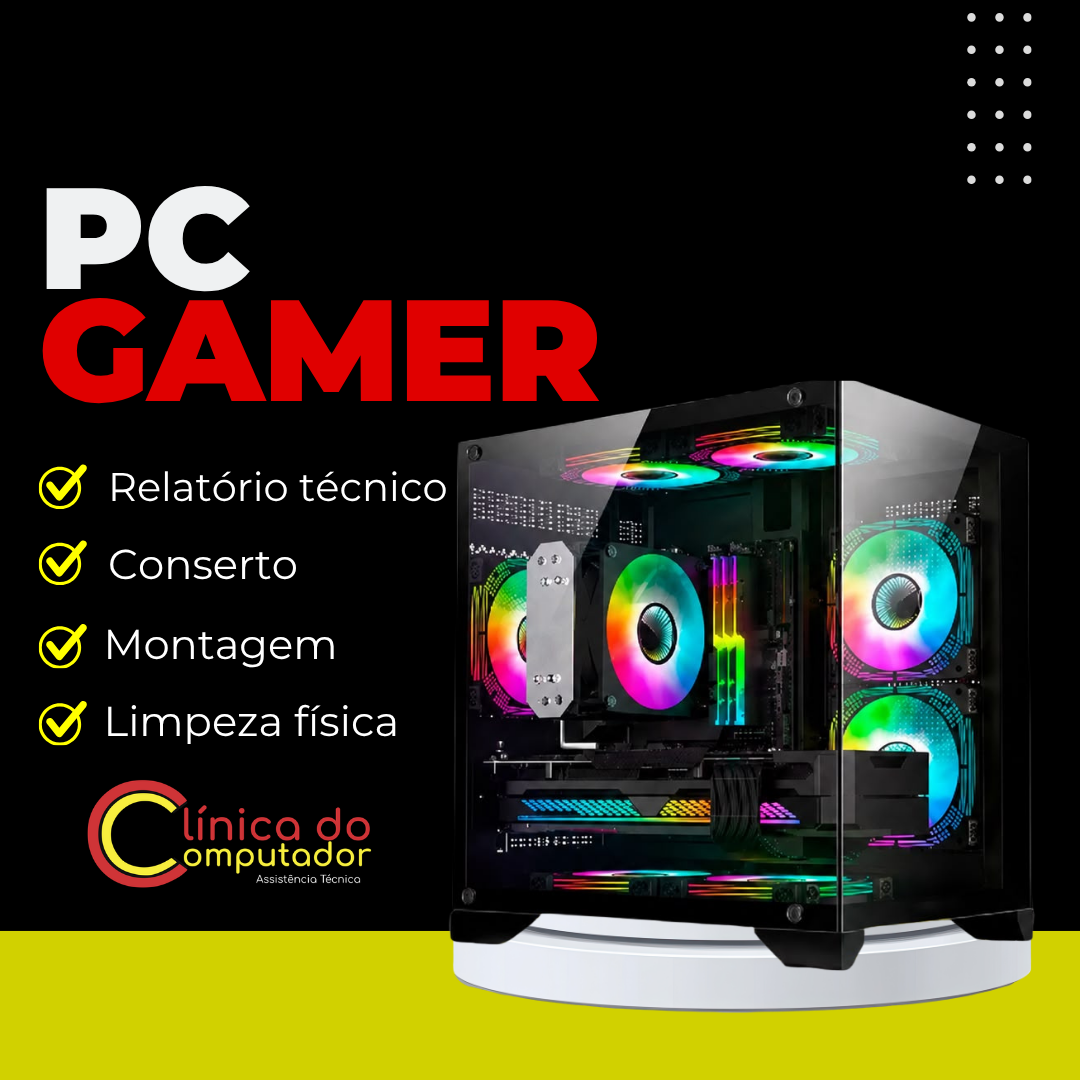
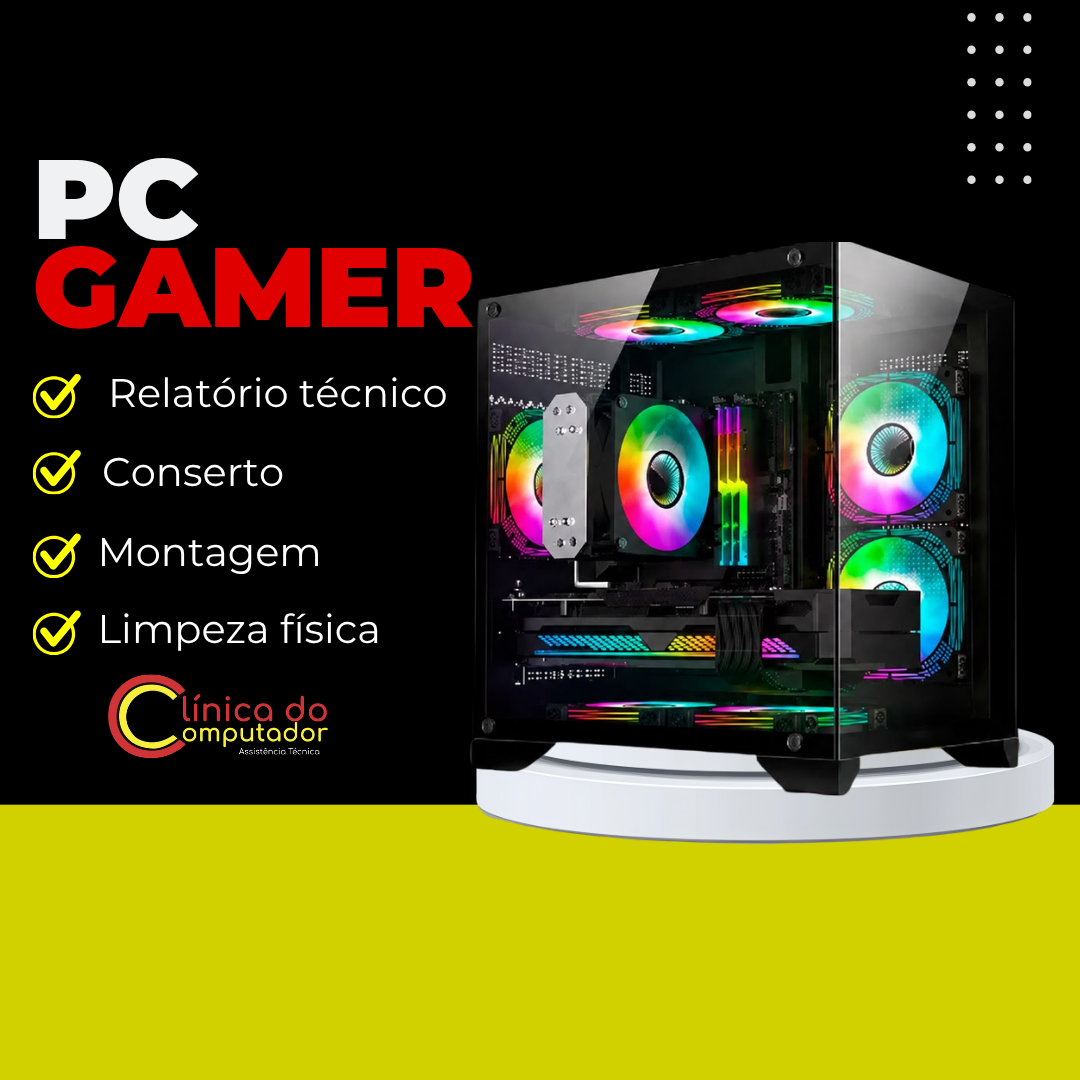
otimização do site

diff --git a/index.html b/index.html
@@ -3,17 +3,55 @@
 
 <head>
     <meta charset="UTF-8">
-    <meta http-equiv="X-UA-Compatible" content="IE=edge">
     <meta name="viewport" content="width=device-width, initial-scale=1.0">
     <meta name="description" content="Assistência técnica especializada em computadores e notebooks em Salvador e Lauro de Freitas. Mais de 15 anos de experiência: reparos, upgrades, formatação e manutenção. Orçamento rápido pelo WhatsApp.">
+
+    <link rel="canonical" href="https://clinicadocomputador.com.br/">
+
+    <meta property="og:type" content="website">
+    <meta property="og:title" content="Clínica do Computador - Assistência Técnica">
+    <meta property="og:description" content="Assistência técnica especializada em computadores e notebooks em Salvador e Lauro de Freitas. Mais de 15 anos de experiência.">
+    <meta property="og:image" content="https://clinicadocomputador.com.br/assets/HERO.png">
+    <meta property="og:url" content="https://clinicadocomputador.com.br/">
+    <meta property="og:locale" content="pt_BR">
+    <meta name="twitter:card" content="summary_large_image">
+
     <link rel="icon" type="image/png" href="assets/logoaba.png?v=3">
     <link rel="apple-touch-icon" href="assets/logoaba.png?v=5">
     <link rel="apple-touch-icon" sizes="180x180" href="assets/logoaba.png?v=6">
     <link rel="icon" type="image/png" sizes="192x192" href="assets/logoaba.png?v=6">
-    
-    <title>Clínica do Computador - Assistência Técnica</title>
+
+    <title>Clínica do Computador - Assistência Técnica em Salvador e Lauro de Freitas</title>
+
+    <link rel="preconnect" href="https://fonts.googleapis.com">
+    <link rel="preconnect" href="https://fonts.gstatic.com" crossorigin>
+    <link href="https://fonts.googleapis.com/css2?family=Inter:wght@400;500;700;800&display=swap" rel="stylesheet">
 
     <link rel="stylesheet" href="style.css">
+
+    <script type="application/ld+json">
+    {
+      "@context": "https://schema.org",
+      "@type": "ComputerStore",
+      "name": "Clínica do Computador",
+      "image": "https://clinicadocomputador.com.br/assets/HERO.png",
+      "telephone": "+557130165743",
+      "url": "https://clinicadocomputador.com.br/",
+      "priceRange": "$$",
+      "location": [
+        {
+          "@type": "Place",
+          "name": "Salvador",
+          "address": { "@type": "PostalAddress", "addressLocality": "Salvador", "addressRegion": "BA", "addressCountry": "BR" }
+        },
+        {
+          "@type": "Place",
+          "name": "Lauro de Freitas",
+          "address": { "@type": "PostalAddress", "addressLocality": "Lauro de Freitas", "addressRegion": "BA", "addressCountry": "BR" }
+        }
+      ]
+    }
+    </script>
 </head>
 
 <body>
@@ -56,7 +94,7 @@
                 </div>
 
                 <div class="hero-image">
-                    <img src="assets/HERO.png" alt="Notebook em manutenção">
+                    <img src="assets/HERO.png" alt="Notebook em manutenção" fetchpriority="high">
                 </div>
             </div>
         </section>
@@ -72,7 +110,7 @@
 
                     <div class="service-card">
                         <div class="card-img">
-                            <img src="assets/pcgamer.png" alt="PC Gamer">
+                            <img src="assets/pcgamer.png" alt="PC Gamer" loading="lazy" width="400" height="230">
                         </div>
                         <div class="card-content">
                             <h3><span class="service-number">01 —</span> PC Gamer</h3>
@@ -88,7 +126,7 @@
 
                     <div class="service-card">
                         <div class="card-img">
-                            <img src="assets/carcacaquebrada.png" alt="Reparos Avançados em Carcaça">
+                            <img src="assets/carcacaquebrada.png" alt="Reparos Avançados em Carcaça" loading="lazy" width="400" height="230">
                         </div>
                         <div class="card-content">
                             <h3><span class="service-number">02 —</span> Reparo em Carcaça</h3>
@@ -104,10 +142,10 @@
 
                     <div class="service-card">
                         <div class="card-img">
-                            <img src="assets/reparoplaca.jpeg" alt="Reparo em Placa Mãe Notebook">
+                            <img src="assets/reparoplaca.jpeg" alt="Reparo em Placa Mãe Notebook" loading="lazy" width="400" height="230">
                         </div>
                         <div class="card-content">
-                            <h3><span class="service-number">03 —</span> Reparo em Placa</h3>
+                            <h3><span class="service-number">03 —</span> Reparo Placa Mãe</h3>
                             <p class="service-short">Diagnóstico e reparo em placas-mãe de notebook.</p>
                             <details>
                                 <summary><span>Saiba mais</span></summary>
@@ -120,7 +158,7 @@
 
                     <div class="service-card">
                         <div class="card-img">
-                            <img src="assets/tela.jpeg" alt="Substituição de tela">
+                            <img src="assets/tela.jpeg" alt="Substituição de tela" loading="lazy" width="400" height="230">
                         </div>
                         <div class="card-content">
                             <h3><span class="service-number">04 —</span> Substituição de Tela</h3>
@@ -136,7 +174,7 @@
 
                     <div class="service-card">
                         <div class="card-img">
-                            <img src="assets/teclado.png" alt="Substituição de teclado">
+                            <img src="assets/teclado.png" alt="Substituição de teclado" loading="lazy" width="400" height="230">
                         </div>
                         <div class="card-content">
                             <h3><span class="service-number">05 —</span> Substituição de Peças</h3>
@@ -152,7 +190,7 @@
 
                     <div class="service-card">
                         <div class="card-img">
-                            <img src="assets/SSD.jpeg" alt="Upgrades">
+                            <img src="assets/SSD.jpeg" alt="Upgrades" loading="lazy" width="400" height="230">
                         </div>
                         <div class="card-content">
                             <h3><span class="service-number">06 —</span> Upgrade e Desempenho</h3>
@@ -168,7 +206,7 @@
 
                     <div class="service-card">
                         <div class="card-img">
-                            <img src="assets/formatacao.png" alt="Sistemas e segurança">
+                            <img src="assets/formatacao.png" alt="Sistemas e segurança" loading="lazy" width="400" height="230">
                         </div>
                         <div class="card-content">
                             <h3><span class="service-number">07 —</span> Sistemas e Segurança</h3>
@@ -184,7 +222,7 @@
 
                     <div class="service-card">
                         <div class="card-img">
-                            <img src="assets/empresa.jpeg" alt="Recuperação e empresas">
+                            <img src="assets/empresa.jpeg" alt="Recuperação e empresas" loading="lazy" width="400" height="230">
                         </div>
                         <div class="card-content">
                             <h3><span class="service-number">08 —</span> Contratos Empresariais</h3>
@@ -519,74 +557,7 @@
         </svg>
     </a>
 
-    <script>
-
-        const carousel = document.querySelector('.reviews-carousel');
-        const arrowLeft = document.querySelector('.carousel-arrow-left');
-        const arrowRight = document.querySelector('.carousel-arrow-right');
-
-        function scrollAmount() {
-            const card = carousel.querySelector('.review-card');
-            return card ? card.offsetWidth + 24 : 320;
-        }
-
-        arrowLeft.addEventListener('click', () => {
-            carousel.scrollBy({ left: -scrollAmount(), behavior: 'smooth' });
-        });
-
-        arrowRight.addEventListener('click', () => {
-            carousel.scrollBy({ left: scrollAmount(), behavior: 'smooth' });
-        });
-
-        function animateCounter(el) {
-            const target = parseFloat(el.dataset.target);
-            const suffix = el.dataset.suffix || '';
-            const duration = 3000;
-            const start = performance.now();
-
-            function step(now) {
-                const progress = Math.min((now - start) / duration, 1);
-                const eased = 1 - Math.pow(1 - progress, 3);
-                el.textContent = Math.floor(target * eased).toLocaleString('pt-BR') + suffix;
-                if (progress < 1) requestAnimationFrame(step);
-            }
-            requestAnimationFrame(step);
-        }
-
-        const timelineObserver = new IntersectionObserver((entries) => {
-            entries.forEach(entry => {
-                if (entry.isIntersecting) {
-                    document.querySelector('.timeline-progress').style.width = '100%';
-
-                    const items = document.querySelectorAll('.timeline-item');
-                    items.forEach((item, i) => {
-                        setTimeout(() => {
-                            item.classList.add('active');
-                            const number = item.querySelector('.timeline-number');
-                            if (number) animateCounter(number);
-                        }, i * 450);
-                    });
-
-                    timelineObserver.unobserve(document.querySelector('.timeline'));
-                }
-            });
-        }, { threshold: 0.4 });
-
-        timelineObserver.observe(document.querySelector('.timeline'));
-
-        const mapUrls = {
-            salvador: 'https://www.google.com/maps/embed?pb=!1m18!1m12!1m3!1d3204.8382777125607!2d-38.37208592955464!3d-12.95042873142942!2m3!1f0!2f0!3f0!3m2!1i1024!2i768!4f13.1!3m3!1m2!1s0x716177d9a82c2cf%3A0x1dfc97d1922794e3!2sCl%C3%ADnica%20do%20Computador!5e1!3m2!1spt-BR!2sbr!4v1787277229207!5m2!1spt-BR!2sbr',
-            lauro: 'https://www.google.com/maps/embed?pb=!1m18!1m12!1m3!1d3889.3984198538774!2d-38.311636829563334!3d-12.882083030198507!2m3!1f0!2f0!3f0!3m2!1i1024!2i768!4f13.1!3m3!1m2!1s0x7163fe65031e9a7%3A0xff6bb661aea42cc2!2sCl%C3%ADnica%20do%20Computador%20e%20Notebooks!5e0!3m2!1spt-BR!2sbr!4v1787277361102!5m2!1spt-BR!2sbr'
-        };
-
-        document.querySelectorAll('.map-tab').forEach(tab => {
-            tab.addEventListener('click', () => {
-                document.querySelectorAll('.map-tab').forEach(t => t.classList.remove('active'));
-                tab.classList.add('active');
-                document.getElementById('mapFrame').src = mapUrls[tab.dataset.map];
-            });
-        });
-    </script>
+   <script src="js/script.js"></script>
 
 </body>
 </html>

diff --git a/js/script.js b/js/script.js
@@ -1,0 +1,109 @@
+
+// CARROSSEL DE AVALIAÇÕES
+
+const carousel = document.querySelector('.reviews-carousel');
+const arrowLeft = document.querySelector('.carousel-arrow-left');
+const arrowRight = document.querySelector('.carousel-arrow-right');
+
+function scrollAmount() {
+    const card = carousel.querySelector('.review-card');
+    return card ? card.offsetWidth + 24 : 320;
+}
+
+arrowLeft.addEventListener('click', () => {
+    carousel.scrollBy({
+        left: -scrollAmount(),
+        behavior: 'smooth'
+    });
+});
+
+arrowRight.addEventListener('click', () => {
+    carousel.scrollBy({
+        left: scrollAmount(),
+        behavior: 'smooth'
+    });
+});
+
+// CONTADORES DA TIMELINE
+
+function animateCounter(el) {
+    const target = parseFloat(el.dataset.target);
+    const suffix = el.dataset.suffix || '';
+    const duration = 3000;
+    const start = performance.now();
+
+    function step(now) {
+        const progress = Math.min((now - start) / duration, 1);
+        const eased = 1 - Math.pow(1 - progress, 3);
+
+        el.textContent =
+            Math.floor(target * eased).toLocaleString('pt-BR') + suffix;
+
+        if (progress < 1) {
+            requestAnimationFrame(step);
+        }
+    }
+
+    requestAnimationFrame(step);
+}
+
+// ANIMAÇÃO DA TIMELINE
+
+const timelineObserver = new IntersectionObserver((entries) => {
+    entries.forEach(entry => {
+        if (entry.isIntersecting) {
+
+            document.querySelector('.timeline-progress').style.width = '100%';
+
+            const items = document.querySelectorAll('.timeline-item');
+
+            items.forEach((item, i) => {
+                setTimeout(() => {
+
+                    item.classList.add('active');
+
+                    const number = item.querySelector('.timeline-number');
+
+                    if (number) {
+                        animateCounter(number);
+                    }
+
+                }, i * 450);
+            });
+
+            timelineObserver.unobserve(
+                document.querySelector('.timeline')
+            );
+        }
+    });
+}, {
+    threshold: 0.4
+});
+
+timelineObserver.observe(
+    document.querySelector('.timeline')
+);
+
+// MAPAS - SALVADOR / LAURO DE FREITAS
+
+const mapUrls = {
+    salvador: 'https://www.google.com/maps/embed?pb=!1m18!1m12!1m3!1d3204.8382777125607!2d-38.37208592955464!3d-12.95042873142942!2m3!1f0!2f0!3f0!3m2!1i1024!2i768!4f13.1!3m3!1m2!1s0x716177d9a82c2cf%3A0x1dfc97d1922794e3!2sCl%C3%ADnica%20do%20Computador!5e1!3m2!1spt-BR!2sbr!4v1787277229207!5m2!1spt-BR!2sbr',
+
+    lauro: 'https://www.google.com/maps/embed?pb=!1m18!1m12!1m3!1d3889.3984198538774!2d-38.311636829563334!3d-12.882083030198507!2m3!1f0!2f0!3f0!3m2!1i1024!2i768!4f13.1!3m3!1m2!1s0x7163fe65031e9a7%3A0xff6bb661aea42cc2!2sCl%C3%ADnica%20do%20Computador%20e%20Notebooks!5e0!3m2!1spt-BR!2sbr!4v1787277361102!5m2!1spt-BR!2sbr'
+};
+
+document.querySelectorAll('.map-tab').forEach(tab => {
+
+    tab.addEventListener('click', () => {
+
+        document
+            .querySelectorAll('.map-tab')
+            .forEach(t => t.classList.remove('active'));
+
+        tab.classList.add('active');
+
+        document.getElementById('mapFrame').src =
+            mapUrls[tab.dataset.map];
+    });
+
+});

diff --git a/style.css b/style.css
@@ -1,5 +1,3 @@
-@import url('https://fonts.googleapis.com/css2?family=Inter:wght@400;500;700;800&display=swap');
-
 :root {
     --color-bg-primary: #0b2436;    /* Tom de azul da marca */
     --color-bg-dark: #080c12;       /* Fundo mais escuro (header, hero, about, footer) */
@@ -972,17 +970,12 @@ summary:focus-visible,
 .whatsapp-float {
     -webkit-user-select: none;
     -moz-user-select: none;
-    -ms-user-select: none;
     user-select: none;
 }
 
 /* Impede o "arraste fantasma" das imagens */
 img {
     -webkit-user-drag: none;
-    -khtml-user-drag: none;
-    -moz-user-drag: none;
-    -o-user-drag: none;
-    user-drag: none;
 }
 
 /* RESPONSIVIDADE */

diff --git a/README.md b/README.md
@@ -4,7 +4,7 @@ Site institucional desenvolvido para a Clínica do Computador, empresa especiali
 
 O projeto foi desenvolvido com foco em apresentar os serviços da empresa, suas unidades, informações institucionais e formas de contato, utilizando uma interface responsiva e adaptada para diferentes dispositivos.
 
-🔗 **Demo:** [clinicadocomputador.net/teste](https://www.clinicadocomputador.net/teste/)
+🔗 **Demo / Site Oficial:** [clinicadocomputador.com.br](https://www.clinicadocomputador.com.br/)
 
 ## Tecnologias
 
@@ -22,12 +22,12 @@ O projeto foi desenvolvido com foco em apresentar os serviços da empresa, suas 
 - **Seções expansíveis** de serviços usando o elemento nativo de HTML `details` e `summary`, sem necessidade de JavaScript
 - **Design 100% responsivo**, testado em três breakpoints (desktop, tablet e mobile)
 
-## Destaque técnico
+## Otimização
 
 O contador da seção "Sobre Nós" só começa a animar quando o usuário rola até ela — implementado com a API `IntersectionObserver`, que evita gastar processamento animando algo que ainda não está visível na tela.
 
 ## Autora
 
-Camila Lacerda Barbosa — estudante de Ciência da Computação, em transição para desenvolvimento de software.
+Camila Lacerda Barbosa
 
 [LinkedIn](https://linkedin.com/in/camilalacerdab) · [GitHub](https://github.com/camilalacerdab)
